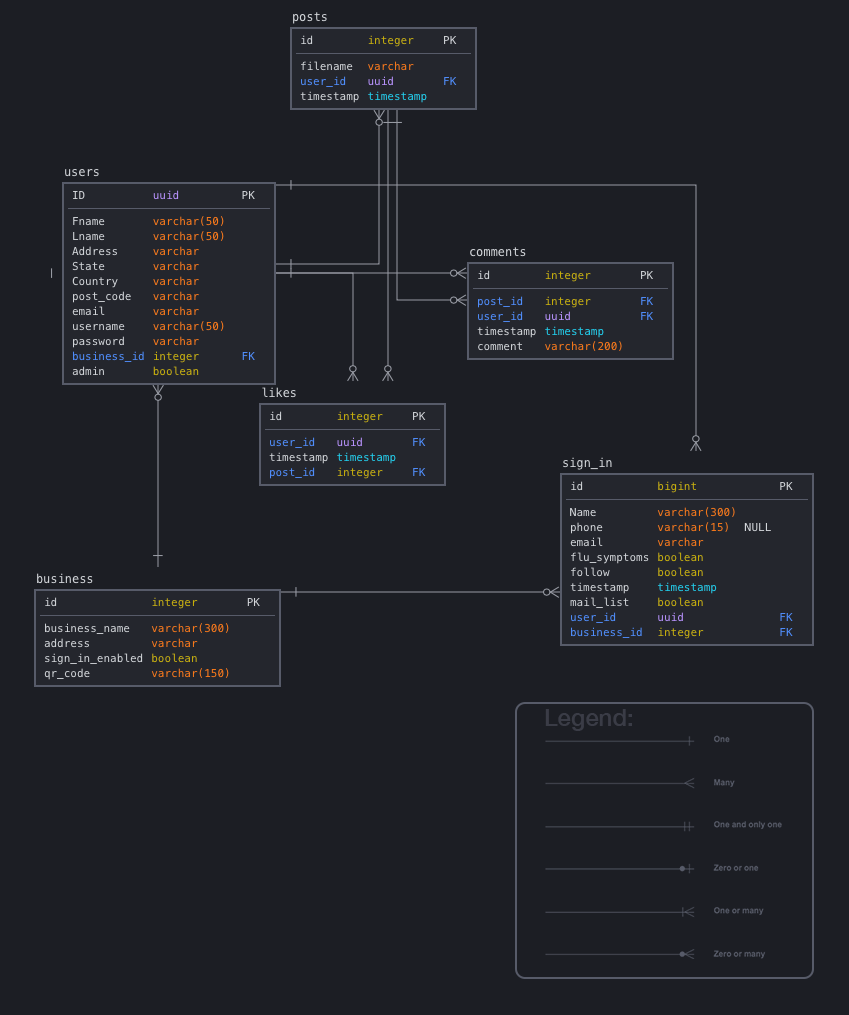
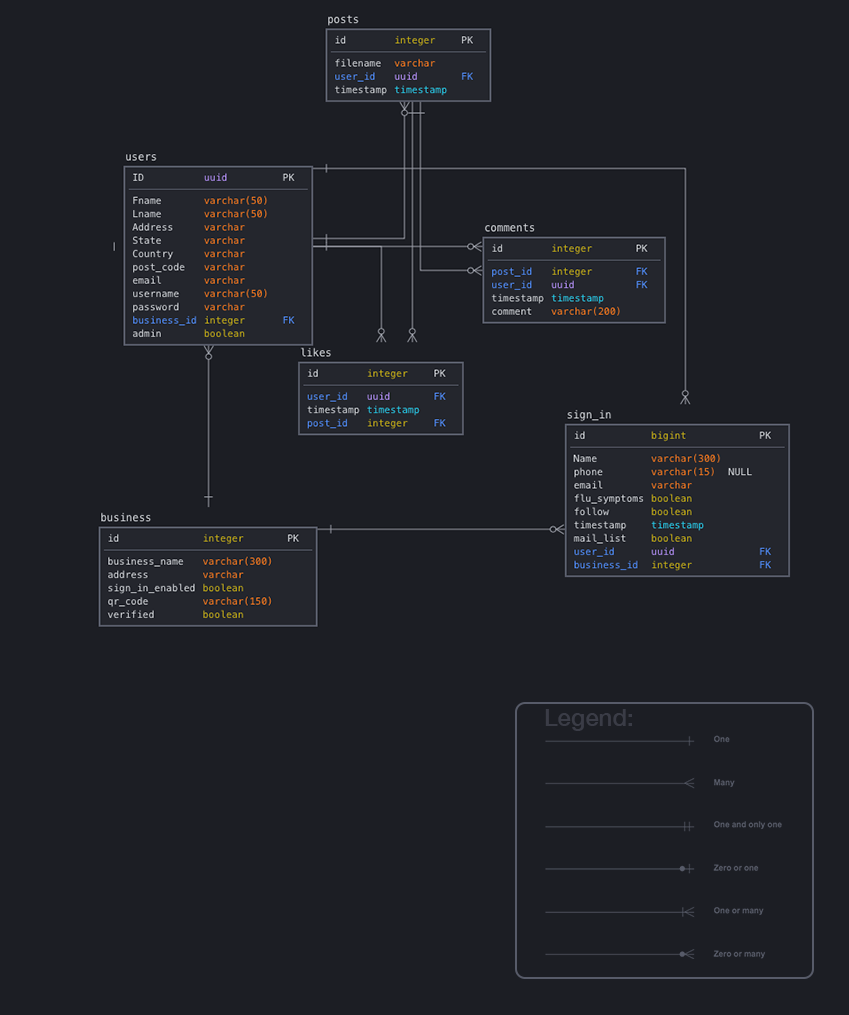
updating docs

diff --git a/readme.md b/readme.md
@@ -77,6 +77,8 @@ Insta-sign integrates directly with instagram so you do not need to sign up to a
 covid sign in services anymore. You can just offer a qr code to sign in where you can capture emails and follows to your 
 profile. Or sign in directly from your profile link. If you have a menu available online you can redirect to it as well.
 
+Integration is as easy as enabling it if you hold a business account and your business is verified.
+
 <div id="built-with"></div>
 
 ### Built With
